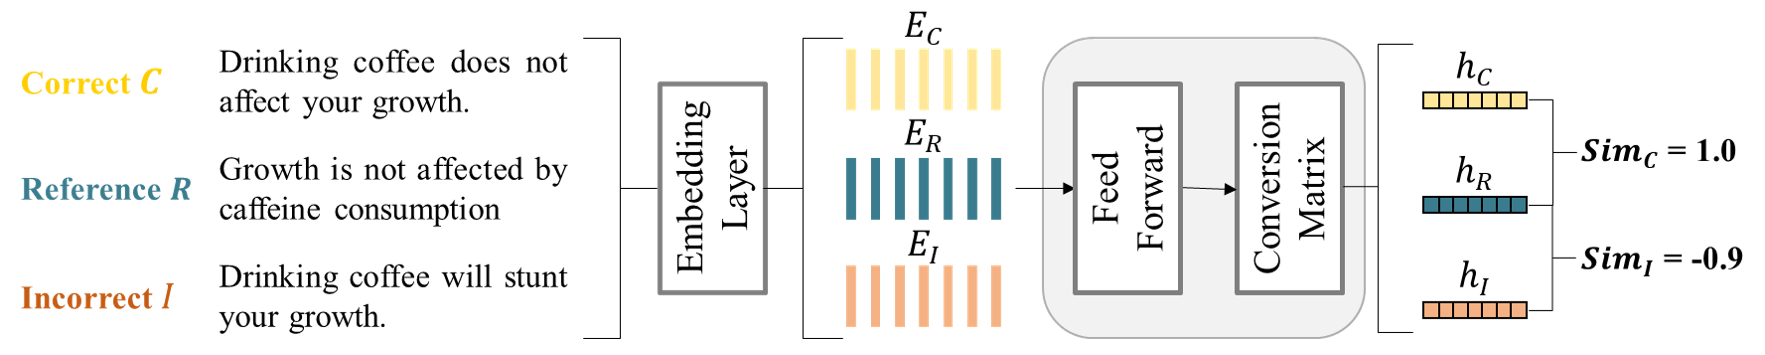
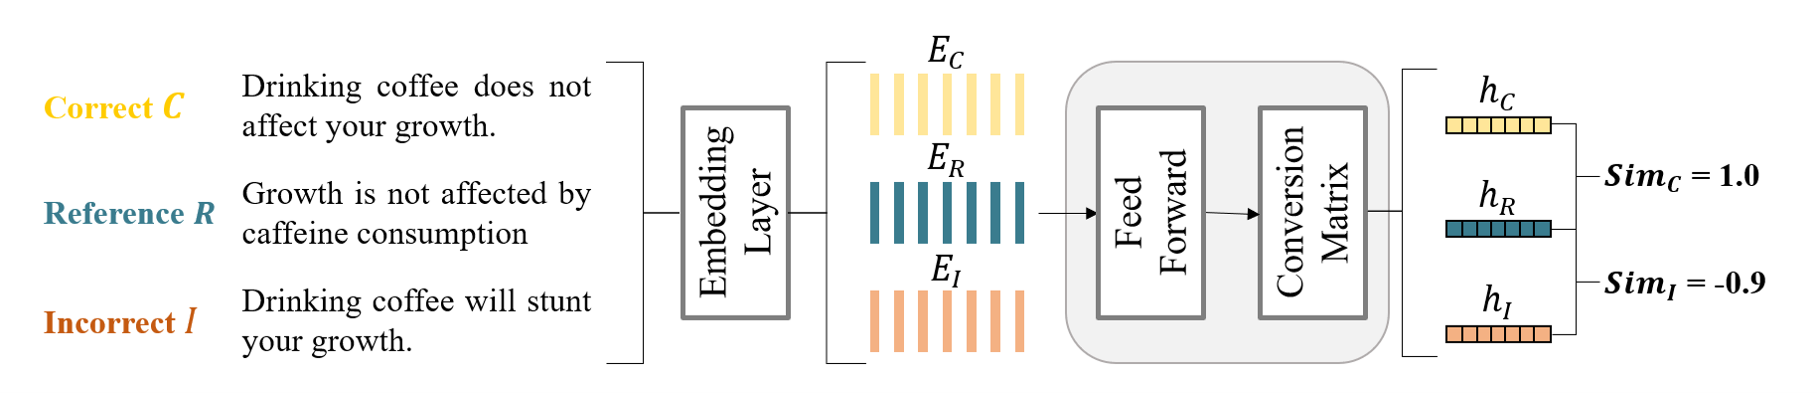
readme

diff --git a/README.md b/README.md
@@ -4,9 +4,7 @@ MATCHA (Matching Text via Contrastive Semantic Alignment) is a learned text simi
 
 **Paper:** [MATCHA: Matching Text via Contrastive Semantic Alignment](https://aclanthology.org/2026.findings-acl.1055.pdf) | **Model:** [HuggingFace](https://huggingface.co/Siran-Li/MATCHA) | **Package:** [matcha-metric](https://pypi.org/project/matcha-metric/)
 
-<table><tr><td bgcolor="white">
-  <img src="figure/matcha_model.png" alt="MATCHA Model Architecture">
-</td></tr></table>
+![MATCHA Model Architecture](figure/matcha_model.png)
 
 ## Project Structure
 
